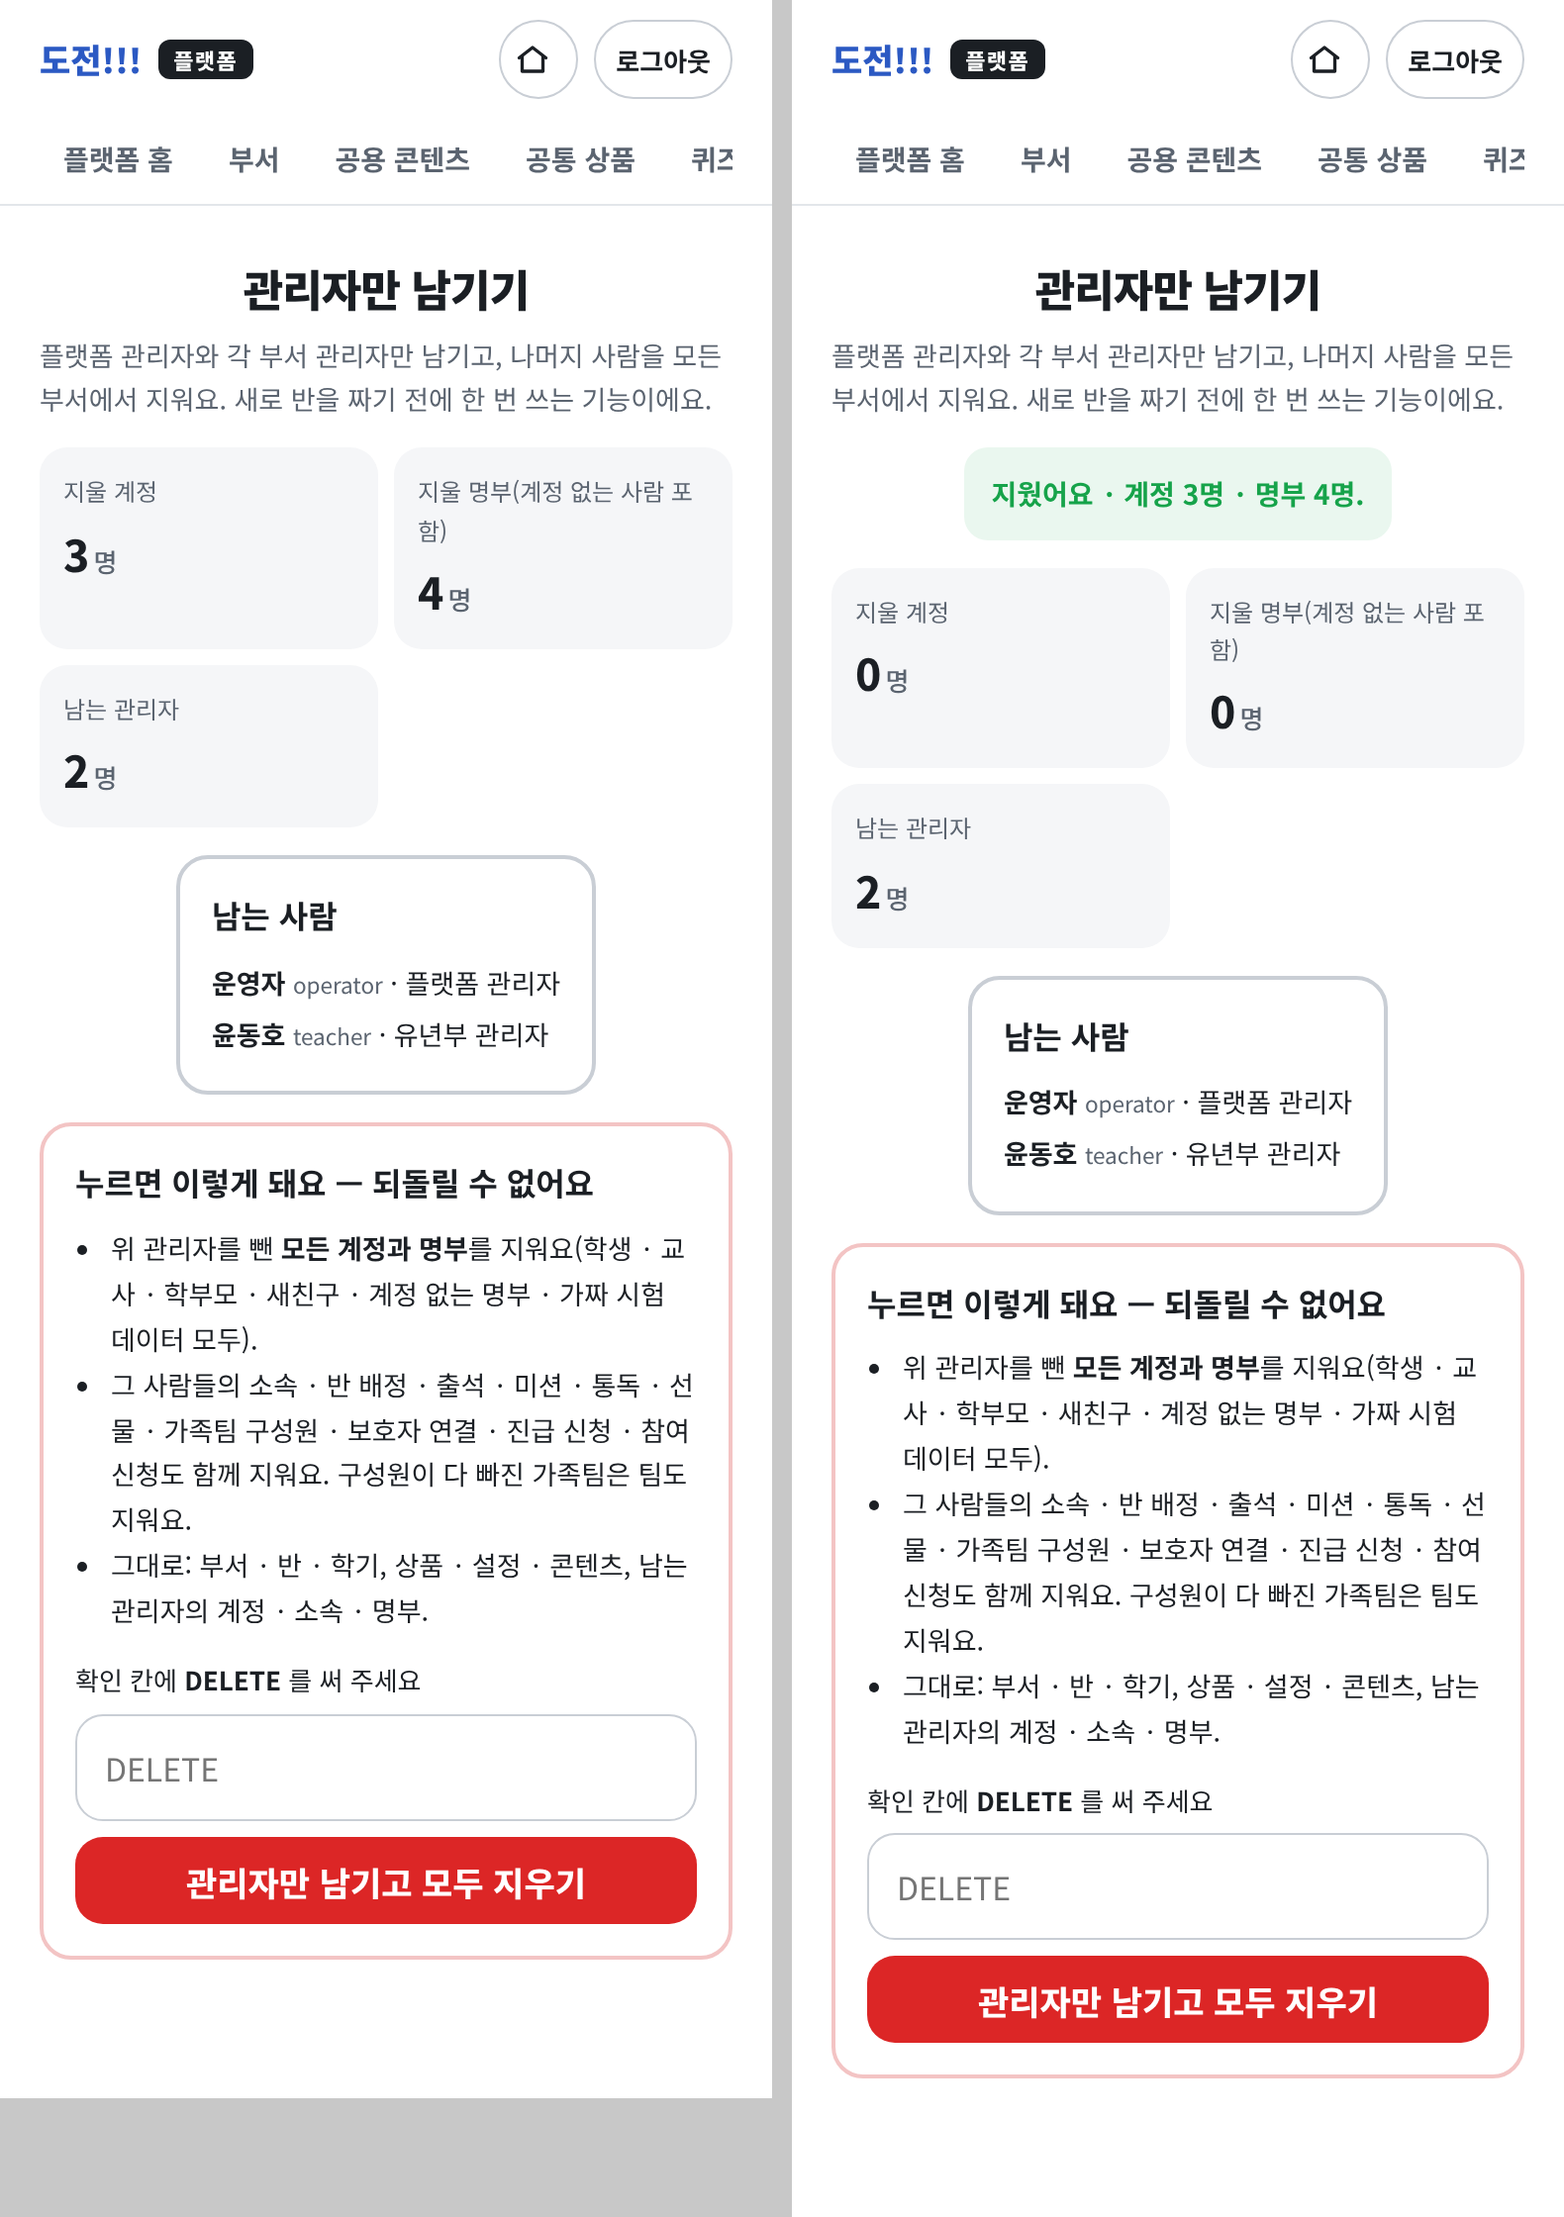
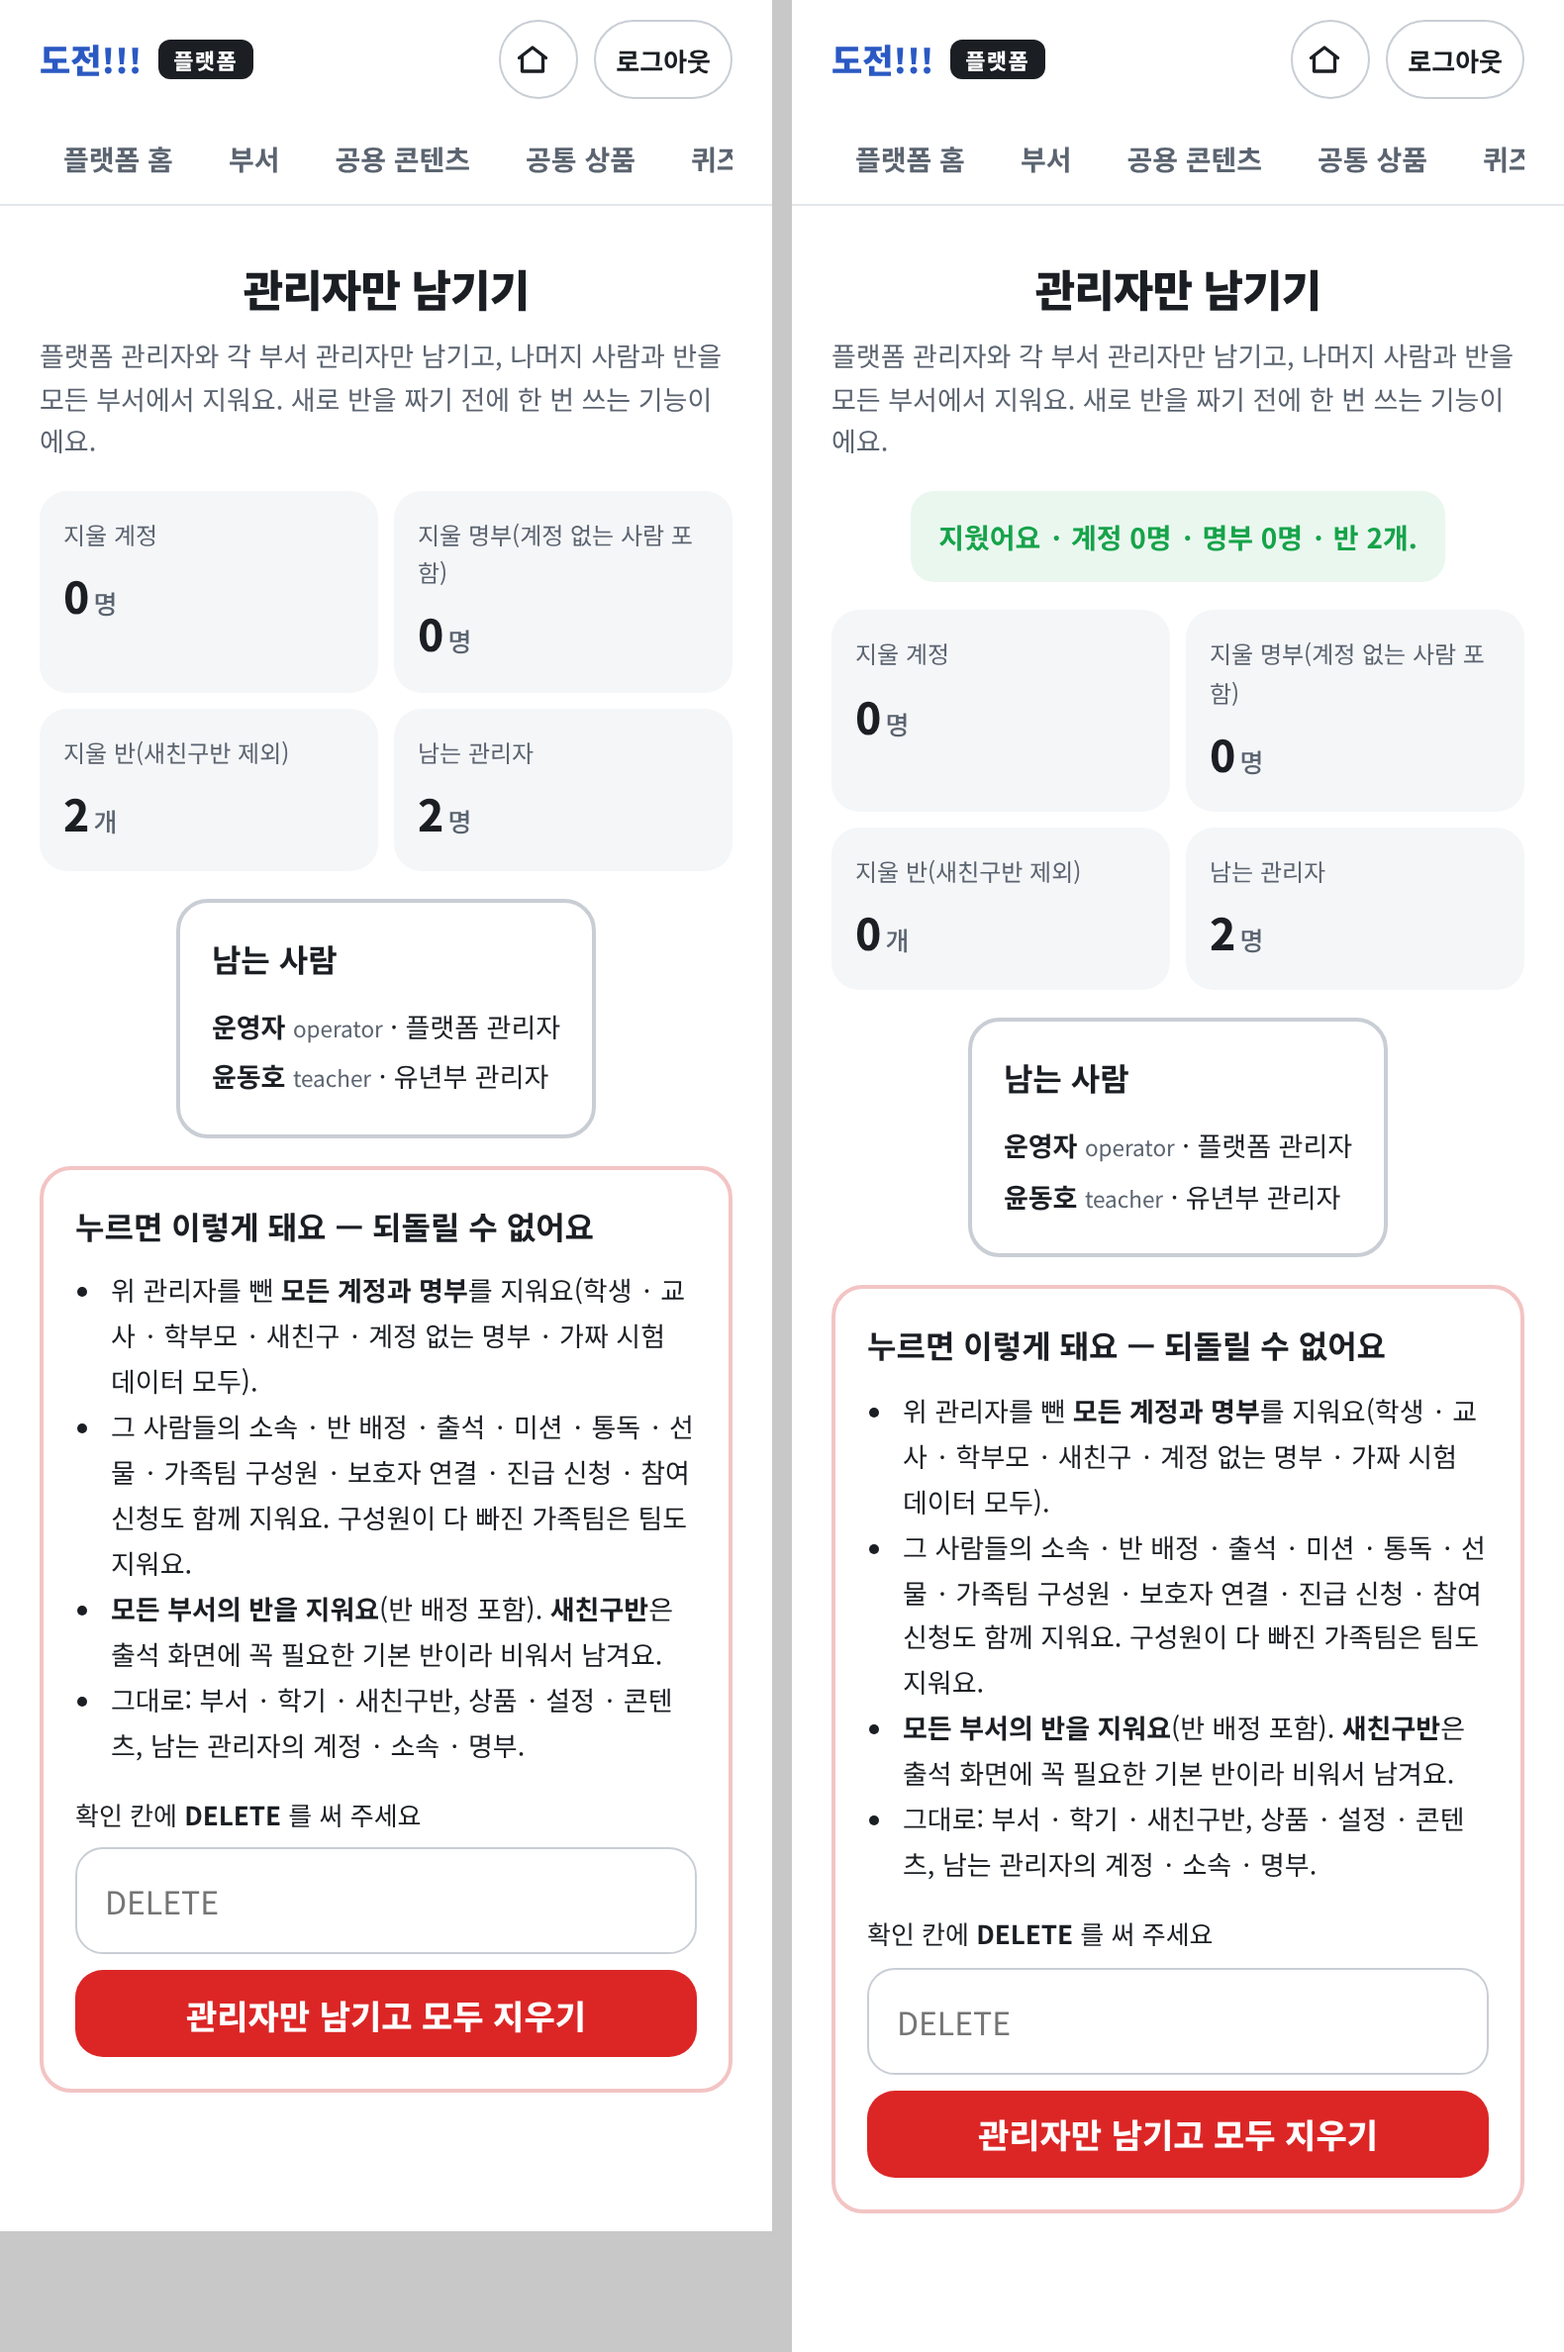
feat: people reset also removes classes except the newcomer class
Claude-Session: https://claude.ai/code/session_01U98pcojUjGDGBhhB8RrrF7

diff --git a/src/ChallengeBible.Web/Services/PeopleResetService.cs b/src/ChallengeBible.Web/Services/PeopleResetService.cs
@@ -5,14 +5,15 @@ namespace ChallengeBible.Web.Services;
 
 /// <summary>남는 관리자 한 명: 이름 · 아이디 · 무슨 관리자인지(플랫폼 관리자 / ○○부 관리자).</summary>
 public sealed record PeopleResetKeep(string UserName, string Name, IReadOnlyList<string> Roles);
-public sealed record PeopleResetStatus(int Accounts, int People, IReadOnlyList<PeopleResetKeep> Keep);
-public sealed record PeopleResetResult(int Accounts, int People, int Teams);
+public sealed record PeopleResetStatus(int Accounts, int People, int Classes, IReadOnlyList<PeopleResetKeep> Keep);
+public sealed record PeopleResetResult(int Accounts, int People, int Teams, int Classes);
 
 /// <summary>
 /// 관리자만 남기기(확정 시안 플랫폼-관리자만남기기, 2026-11-15 사용자 "아이들 모두 삭제하고 반 편성, Superadmin 과 각 부서 관리자는 제외"):
 /// 플랫폼 관리자(Identity SuperAdmin)와 부서 관리자(Identity Admin)만 남기고 **모든 부서의** 다른 계정 · 명부와 그 사람의 기록을 지운다(되돌릴 수 없음).
 /// 같이 지움: 소속 · 참여 신청 · 반 배정 · 출석 · 미션 · 퀴즈 · 통독 · 선물(이력 · 쓴 점수) · 가족팀 구성원(다 빠진 팀은 팀 · 신청 · 숨김 · 시상까지) · 보호자 연결 ·
-/// 진급 신청 · 설정 · 그 사람이 남긴 감사 로그. 그대로: 부서 · 반 · 학기 · 상품 · 설정 · 콘텐츠, 남는 관리자의 계정 · 소속 · 명부. 시스템 연결 · 한 트랜잭션.
+/// 진급 신청 · 설정 · 그 사람이 남긴 감사 로그, 그리고 **모든 부서의 반**(가짜 반, 2026-11-15 사용자 질문 1 → 1 — 새친구반은 출석 화면의 기본 반이라 비워서 남김)과 반 배정 전부.
+/// 그대로: 부서 · 학기 · 새친구반 · 상품 · 설정 · 콘텐츠, 남는 관리자의 계정 · 소속 · 명부. 시스템 연결 · 한 트랜잭션.
 /// </summary>
 public sealed class PeopleResetService(ISystemDb systemDb, TimeProvider time)
 {
@@ -34,7 +35,8 @@ public sealed class PeopleResetService(ISystemDb systemDb, TimeProvider time)
         var ids = kept.Select(k => k.Id).ToList();
         var roles = await (from ur in ctx.UserRoles join r in ctx.IdentityRoleRows on ur.RoleId equals r.Id where ids.Contains(ur.UserId) select new { ur.UserId, r.Name }).ToListAsync(ct);
         var depts = await (from d in ctx.DeptRoles join t in ctx.Tenants on d.TenantId equals t.Id where ids.Contains(d.UserId!) select new { d.UserId, t.Name }).ToListAsync(ct);
-        return new PeopleResetStatus(accounts, people, kept.Select(k => new PeopleResetKeep(k.UserName ?? "", AppUser.FullName(k.LastName, k.FirstName) is { Length: > 0 } n ? n : k.UserName ?? "",
+        var classes = await ctx.Classes.CountAsync(c => !c.IsNewcomer, ct);
+        return new PeopleResetStatus(accounts, people, classes, kept.Select(k => new PeopleResetKeep(k.UserName ?? "", AppUser.FullName(k.LastName, k.FirstName) is { Length: > 0 } n ? n : k.UserName ?? "",
                 [.. roles.Any(r => r.UserId == k.Id && r.Name == IdentityRoles.SuperAdmin) ? ["플랫폼 관리자"] : Array.Empty<string>(),
                  .. roles.Any(r => r.UserId == k.Id && r.Name == IdentityRoles.Admin) ? depts.Where(d => d.UserId == k.Id).Select(d => $"{d.Name} 관리자") : []]))
             .OrderBy(k => k.Name).ToList());
@@ -86,7 +88,9 @@ public sealed class PeopleResetService(ISystemDb systemDb, TimeProvider time)
         await DeleteAsync(ctx, ctx.ReadingRounds.Where(r => names.Contains(r.UserName)), ct);
 
         await DeleteAsync(ctx, ctx.AttendanceChecks.Where(a => persons.Contains(a.PersonId)), ct);
-        await DeleteAsync(ctx, ctx.ClassMembers.Where(m => persons.Contains(m.PersonId)), ct);
+        await DeleteAsync(ctx, ctx.ClassMembers, ct);   // 반을 새로 짜므로 반 배정은 모두(남는 관리자의 담임 자리 포함)
+        var classCount = await ctx.Classes.CountAsync(c => !c.IsNewcomer, ct);
+        await DeleteAsync(ctx, ctx.Classes.Where(c => !c.IsNewcomer), ct);
         await DeleteAsync(ctx, ctx.SignupApplications.Where(s => ids.Contains(s.UserId) || persons.Contains(s.PersonId)), ct);
         await DeleteAsync(ctx, ctx.People.Where(p => persons.Contains(p.Id)), ct);
 
@@ -99,8 +103,8 @@ public sealed class PeopleResetService(ISystemDb systemDb, TimeProvider time)
         await DeleteAsync(ctx, ctx.UserRoles.Where(r => ids.Contains(r.UserId)), ct);
         await DeleteAsync(ctx, ctx.Users.Where(u => ids.Contains(u.Id)), ct);
 
-        var result = new PeopleResetResult(ids.Count, persons.Count, teamIds.Count);
-        ctx.AuditLogs.Add(new AuditLog { OccurredUtc = time.GetUtcNow().UtcDateTime, ActorUserName = actor, Action = Action, Detail = $"accounts={result.Accounts};people={result.People};teams={result.Teams}" });
+        var result = new PeopleResetResult(ids.Count, persons.Count, teamIds.Count, classCount);
+        ctx.AuditLogs.Add(new AuditLog { OccurredUtc = time.GetUtcNow().UtcDateTime, ActorUserName = actor, Action = Action, Detail = $"accounts={result.Accounts};people={result.People};teams={result.Teams};classes={result.Classes}" });
         await ctx.SaveChangesAsync(ct);
         if (tx is not null) await tx.CommitAsync(ct);
         return result;

diff --git a/tests/ChallengeBible.Tests/Web/PeopleResetTests.cs b/tests/ChallengeBible.Tests/Web/PeopleResetTests.cs
@@ -50,6 +50,7 @@ public partial class PeopleResetTests : IClassFixture<WebApplicationFactory<Prog
         raw.SaveChanges();
         var cls = new SchoolClass { TenantId = _kids.Id, TermId = term.Id, Name = "1반", CreatedUtc = DateTime.UtcNow };
         raw.Classes.Add(cls);
+        raw.Classes.Add(new SchoolClass { TenantId = _kids.Id, TermId = term.Id, Name = "새친구반", IsNewcomer = true, CreatedUtc = DateTime.UtcNow });
         raw.SaveChanges();
         raw.ClassMembers.Add(new ClassMember { TenantId = _kids.Id, TermId = term.Id, ClassId = cls.Id, PersonId = pKid.Id });
         raw.AttendanceChecks.Add(new AttendanceCheck { TenantId = _kids.Id, PersonId = pKid.Id, Sunday = new DateOnly(2026, 11, 8), CreatedUtc = DateTime.UtcNow });
@@ -88,7 +89,7 @@ public partial class PeopleResetTests : IClassFixture<WebApplicationFactory<Prog
     }
 
     [Fact]
-    public async Task 관리자만_남기고_모든_사람과_기록을_지운다_부서_반은_그대로()
+    public async Task 관리자만_남기고_모든_사람과_기록_반을_지운다_새친구반_학기는_그대로()
     {
         var op = await Login("operator@example.com");
         var page = await op.GetStringAsync("/platform/people-reset");
@@ -98,7 +99,7 @@ public partial class PeopleResetTests : IClassFixture<WebApplicationFactory<Prog
         Assert.Contains("<b class=\"num\">2<u>명</u></b>", page);   // 지울 계정 2(권동석 · 김선생)
 
         var body = await Reset(op, "DELETE");
-        Assert.Contains("지웠어요 · 계정 2명 · 명부 2명 · 빈 가족팀 1개", body);
+        Assert.Contains("지웠어요 · 계정 2명 · 명부 2명 · 반 1개 · 빈 가족팀 1개", body);
         using var raw = InMemoryDb.Raw(_db);
         Assert.Equal(new[] { _admin, _op }.Order().ToArray(), raw.Users.Select(u => u.UserName!).Order().ToArray());
         Assert.Equal("윤동호", raw.People.Single().Name);   // 관리자 명부만
@@ -112,9 +113,9 @@ public partial class PeopleResetTests : IClassFixture<WebApplicationFactory<Prog
         Assert.Empty(raw.TeamAwards);
         Assert.Empty(raw.Gifts);
         Assert.Single(raw.Tenants);
-        Assert.Single(raw.Classes);   // 반 · 학기는 그대로
-        Assert.Single(raw.ClassTerms);
-        Assert.Equal("accounts=2;people=2;teams=1", raw.AuditLogs.Single(a => a.Action == PeopleResetService.Action).Detail);
+        Assert.True(raw.Classes.Single().IsNewcomer);   // 반은 지우고 새친구반만 남김
+        Assert.Single(raw.ClassTerms);   // 학기는 그대로
+        Assert.Equal("accounts=2;people=2;teams=1;classes=1", raw.AuditLogs.Single(a => a.Action == PeopleResetService.Action).Detail);
     }
 
     [Fact]

diff --git a/docs/design/진행-상황.md b/docs/design/진행-상황.md
@@ -4,9 +4,10 @@
 
 이 문서는 작업을 새 세션(다른 계정 포함)에서 이어 갈 때 먼저 읽는다. 규칙은 `CLAUDE.md`, 결정은 `docs/concept/01` 의 D1~D25 와 `docs/design/` ADR 0001~0095 가 기준이다.
 
-## 0-00000000000000000000000000000. 관리자만 남기기(2026-11-15) — **main 머지(사용자 질문 3 → 1) · 게시 · 운영에서 누르기 남음**
+## 0-00000000000000000000000000000. 관리자만 남기기(2026-11-15) — **반도 함께 지우게 고침, 사용자 확인 → main 머지 · 게시 · 운영에서 누르기 남음**
 - 사용자: 반 편성 전에 "아이들 모두 삭제, Superadmin · 각 부서 관리자는 제외" → 질문 1 → 1(관리자 뺀 모든 사람) → 방법 질문 → **2 화면 버튼** → 시안 `docs/design/시안/플랫폼-관리자만남기기-시안.png` 확정. 반 · 학기는 남김(빈 반에 새로 넣기).
 - 코드: `Services/PeopleResetService.cs`(남길 계정 = Identity SuperAdmin · Admin, 지울 계정 · 명부 수 · 남는 사람 명단, 지우기: 가족팀 구성원 → 빈 팀(신청 · 숨김 · 시상 · 팀 선물) → 선물 · 이력 · 쓴 점수 → 보호자 · 진급 · 미션 · 퀴즈 · 통독 → 출석 · 반 배정 · 참여 신청 · 명부 → 소속 · 설정 · 감사 로그 → Identity 토큰 · 로그인 · 클레임 · 역할 · 계정, 한 트랜잭션), `/platform/people-reset`(확인 글자 DELETE), 플랫폼 메뉴 "관리자만 남기기", 감사 로그 `PeopleReset`.
+- 사용자 질문 1 → 1(2026-11-15): **반도 함께 지움**(가짜 반) — 모든 부서의 반(새친구반 제외) · 반 배정 전부, 새친구반 · 학기는 남김. 화면에 "지울 반" 칸. 이 방 SQL Server 로 확인(가짜1 · 2반 지움, 새친구반 남음). 반 추가 · 이름 · 삭제 · 사람 넣기 · 빼기 기능은 이미 있음(관리 › 반, 부서 관리자, 하나씩).
 - 테스트 `PeopleResetTests` 3개, 전체 804 통과. 이 방 SQL Server 로 눌러 봄: 계정 5 → 2 · 명부 5 → 1 · 소속 4 → 1 · 선물 · 출석 · 통독 0, 부서 그대로. 캡처 `docs/design/시안/플랫폼-관리자만남기기-구현.png`. 새 SQL 없음.
 
 ## 0-0000000000000000000000000000. 여러 부서 한 번에 만들기(2026-11-15) — **게시 · 운영에서 만듦(2026-11-15 사용자 캡처: 영아부 · 유아부 · 유치부 소속 0명, 모두 8곳)**
